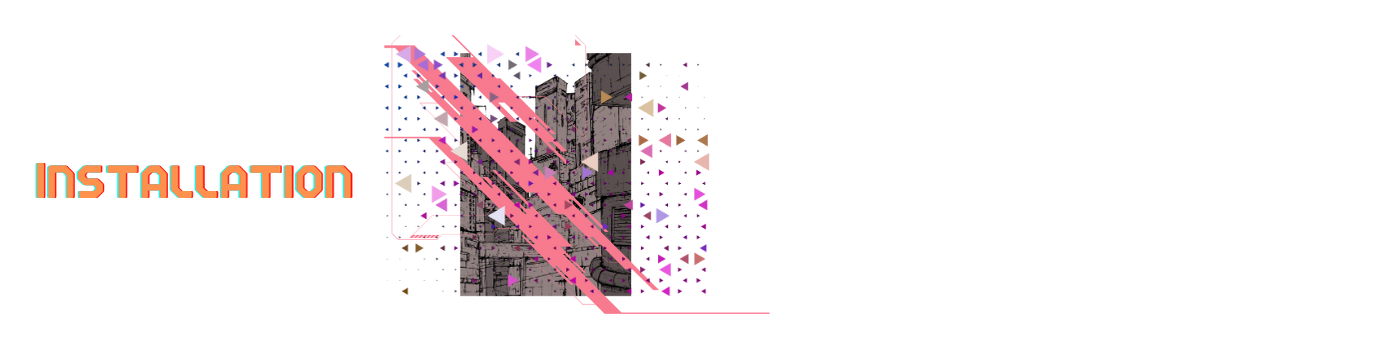
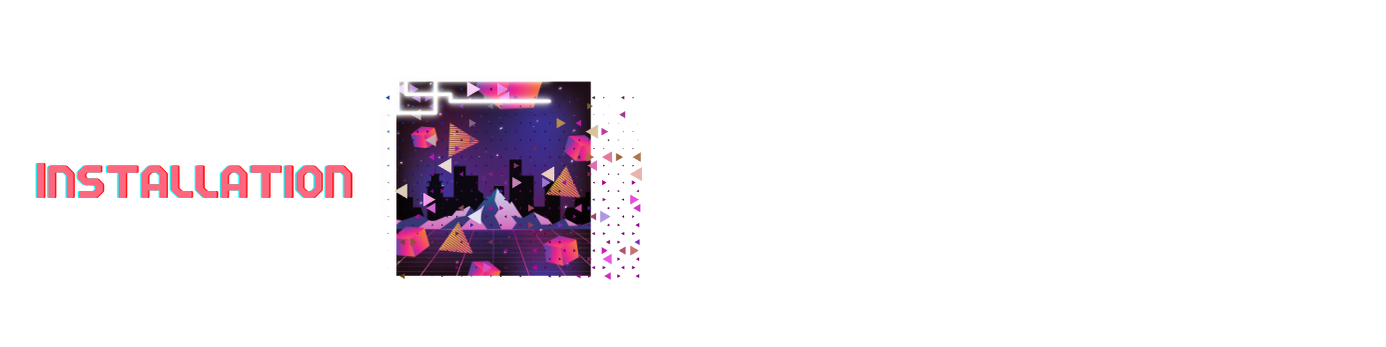
added more branding elements and updating reamde

Changed region(s): [[0.0, 0.1153, 0.5584, 0.9222], [0.4964, 0.5476, 0.5274, 0.6052]]

diff --git a/README.md b/README.md
@@ -42,6 +42,13 @@ git clone https://github.com/christiecamp/gremlin-land.git
 ```javascript
 npm i
 ```
+#
+
+### ![usage](./goblin-goods/branding/readme/3.png)
+
+**INSTRUCTIONS:**
+
+1. Open the Integrated Terminal and follow the [installation](#installation) guidelines
 
 #
 
